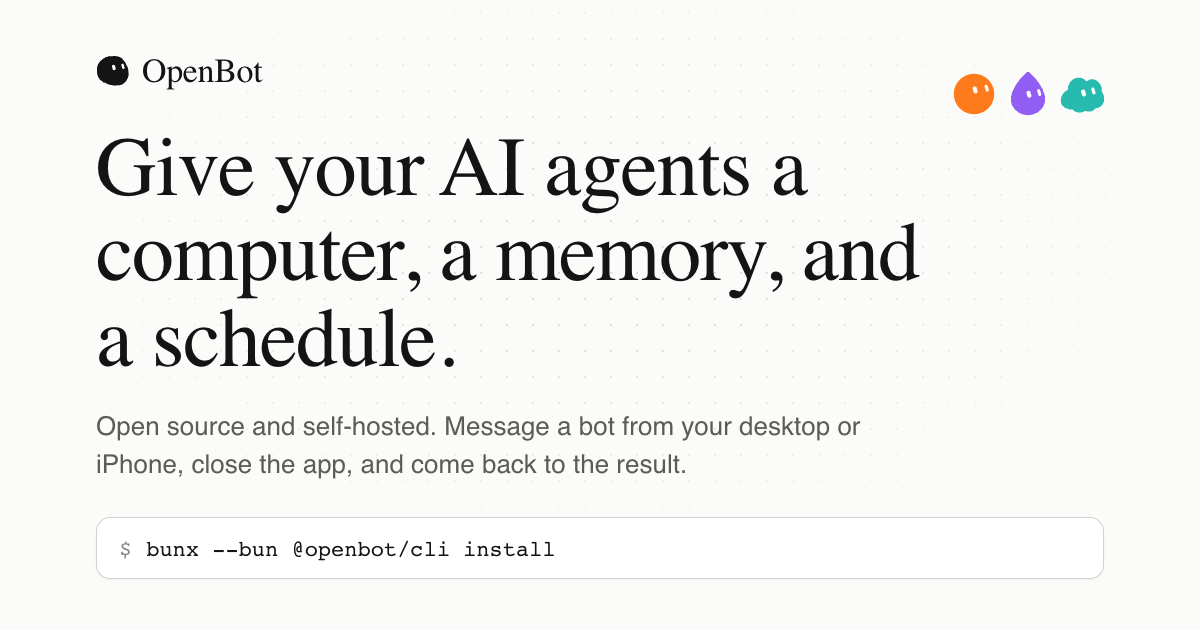
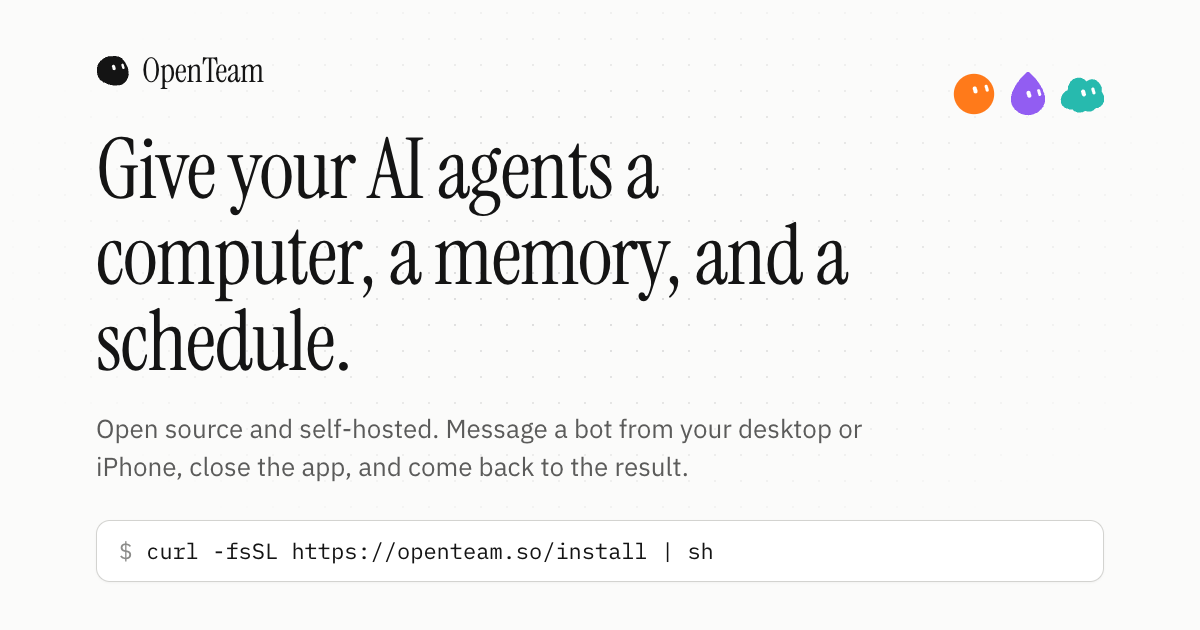
Match the landing installer and OG image to the curl install
The installer terminal now types the curl command and the CLI download
step, and the share image carries the OpenTeam name and the same command.

diff --git a/apps/landing/components/installer.tsx b/apps/landing/components/installer.tsx
@@ -8,8 +8,9 @@ import { cn } from "@/lib/utils";
  * motion flag every line is simply shown.
  */
 const LINES: Array<{ kind: "cmd" | "ok" | "next"; text: string }> = [
-  { kind: "cmd", text: "bunx --bun @openteam/cli install" },
+  { kind: "cmd", text: "curl -fsSL https://openteam.so/install | sh" },
   { kind: "ok", text: "Docker and Compose found" },
+  { kind: "ok", text: "Downloaded the openteam CLI" },
   { kind: "ok", text: "Generated installation secrets" },
   { kind: "ok", text: "Verified release checksum and signature" },
   { kind: "ok", text: "Pulled server, worker, computer, and database images" },
